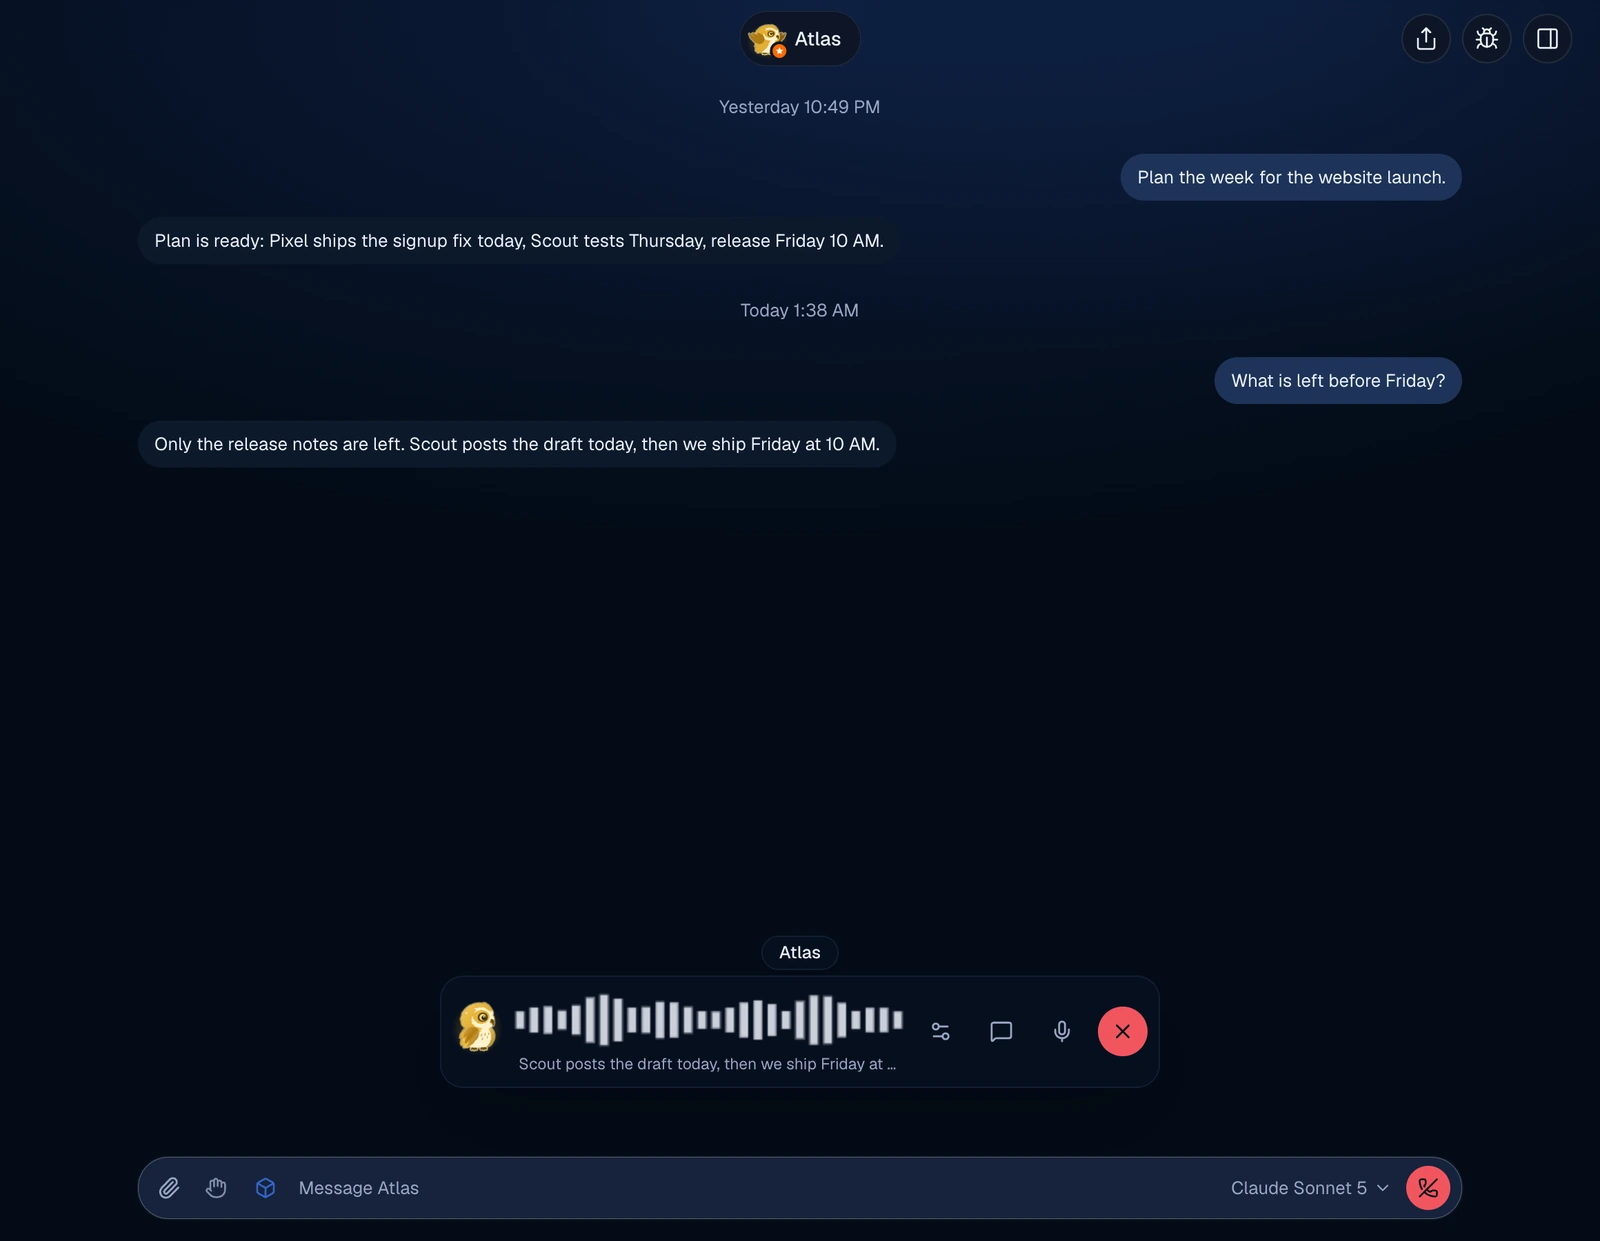
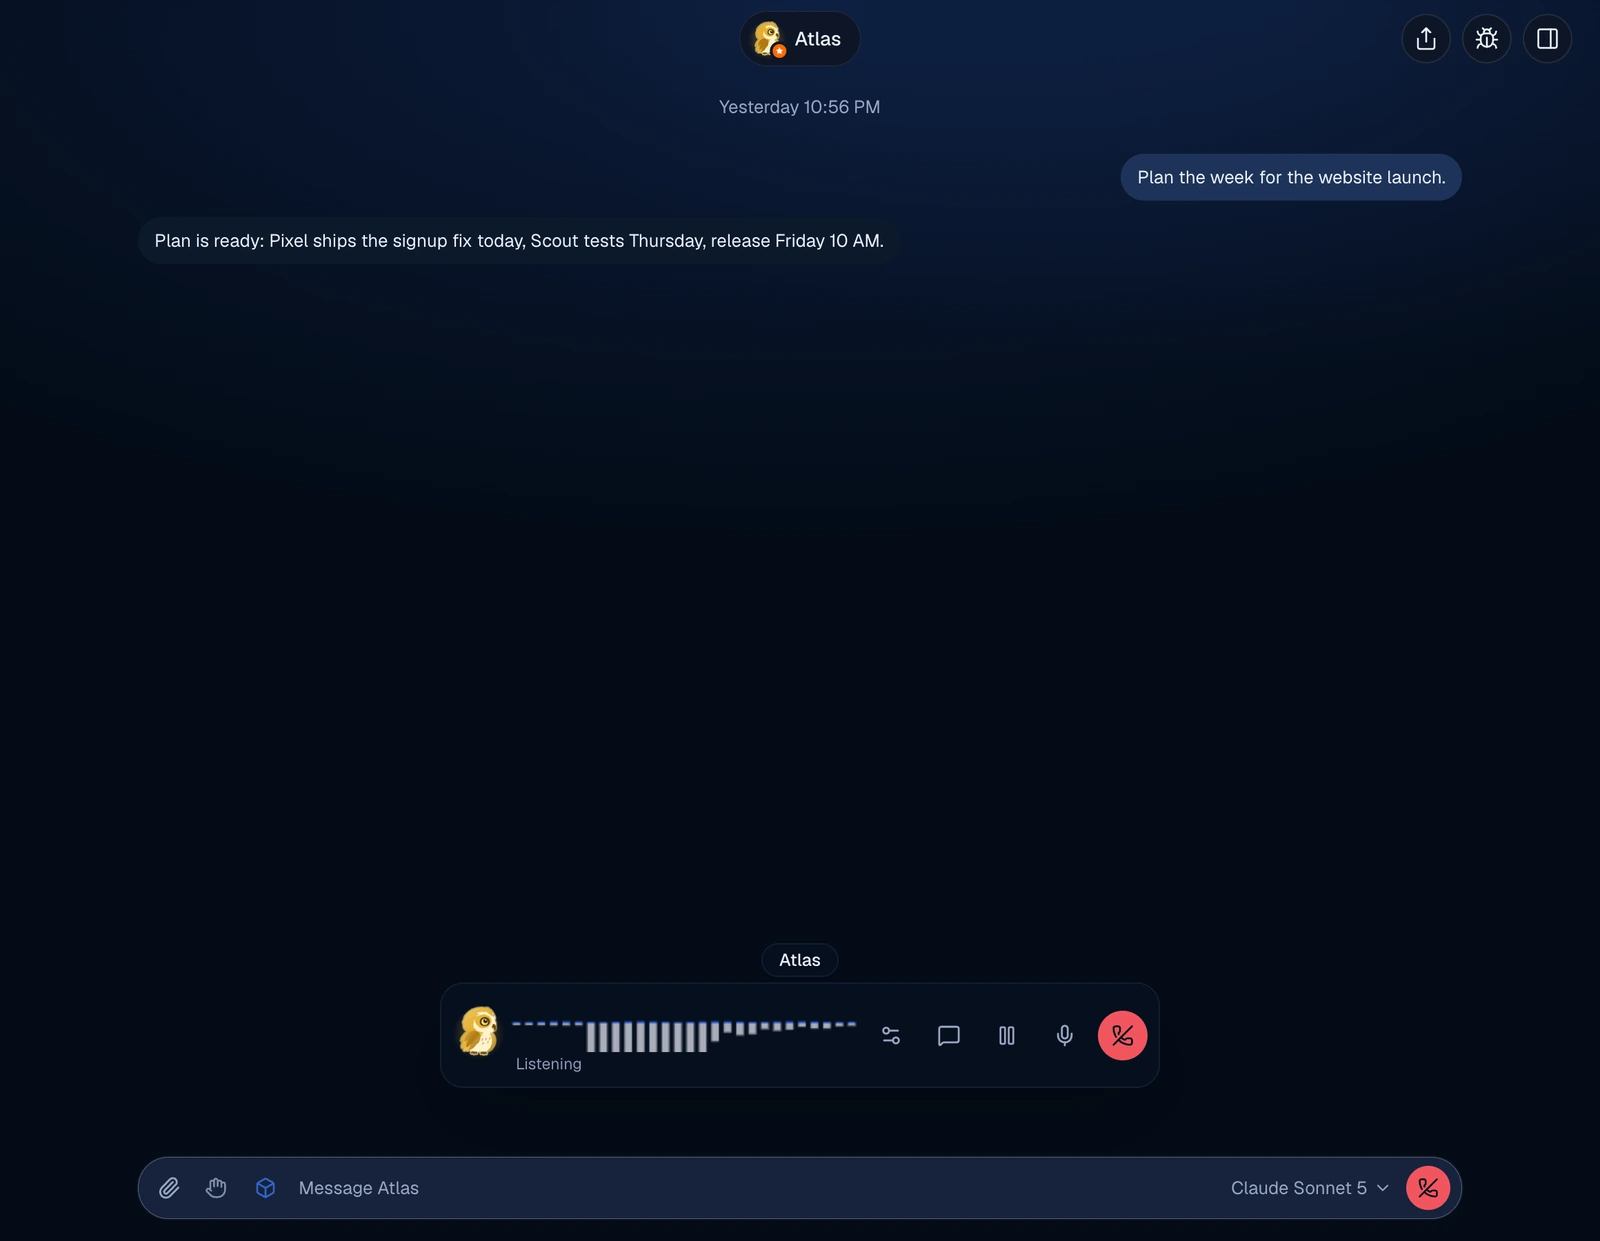
docs(readme): voice calls after #56, fresh live call screenshot
Claude-Session: https://claude.ai/code/session_01Hd92V2CX6HCgfX8oYnCgMz

diff --git a/README.md b/README.md
@@ -97,17 +97,21 @@ Take control at any time. A bot can work in:
 <tr>
 <td width="50%" valign="top">
 
-<img src="docs/images/readme/voice-mode.webp" alt="Voice mode: a floating voice bar under the chat with Atlas speaking its answer, a waveform and buttons for settings, transcript, microphone and hang up" width="100%">
+<img src="docs/images/readme/voice-mode.webp" alt="Voice mode: a live call with Atlas in a floating bar above the composer, listening, with a waveform and buttons for settings, transcript, hold, mute and hang up" width="100%">
 
 </td>
 <td width="50%" valign="top">
 
-### Voice mode
+### Voice calls
 
-Press the call button on a bot and talk. Speech to text and text to speech go
-through xAI on the server, so the key never reaches the app. Pick the voice,
-speed and language once; they follow you. Works on macOS and Windows, solo or
-on an organization server ([docs/voice-mode-xai.md](docs/voice-mode-xai.md)).
+Press the call button on a bot and talk, like a phone call. The microphone
+stays open: interrupt the bot at any time and it stops talking. Hold, mute
+and push to talk are one click away. The bot is still the one answering:
+every sentence you say becomes an ordinary message in the thread, and xAI is
+used only for speech to text and text to speech, on the server, so the key
+never reaches the app. Voice detection runs on your computer. Works on macOS
+and Windows, solo or on an organization server
+([docs/voice-mode-xai.md](docs/voice-mode-xai.md)).
 
 </td>
 </tr>
